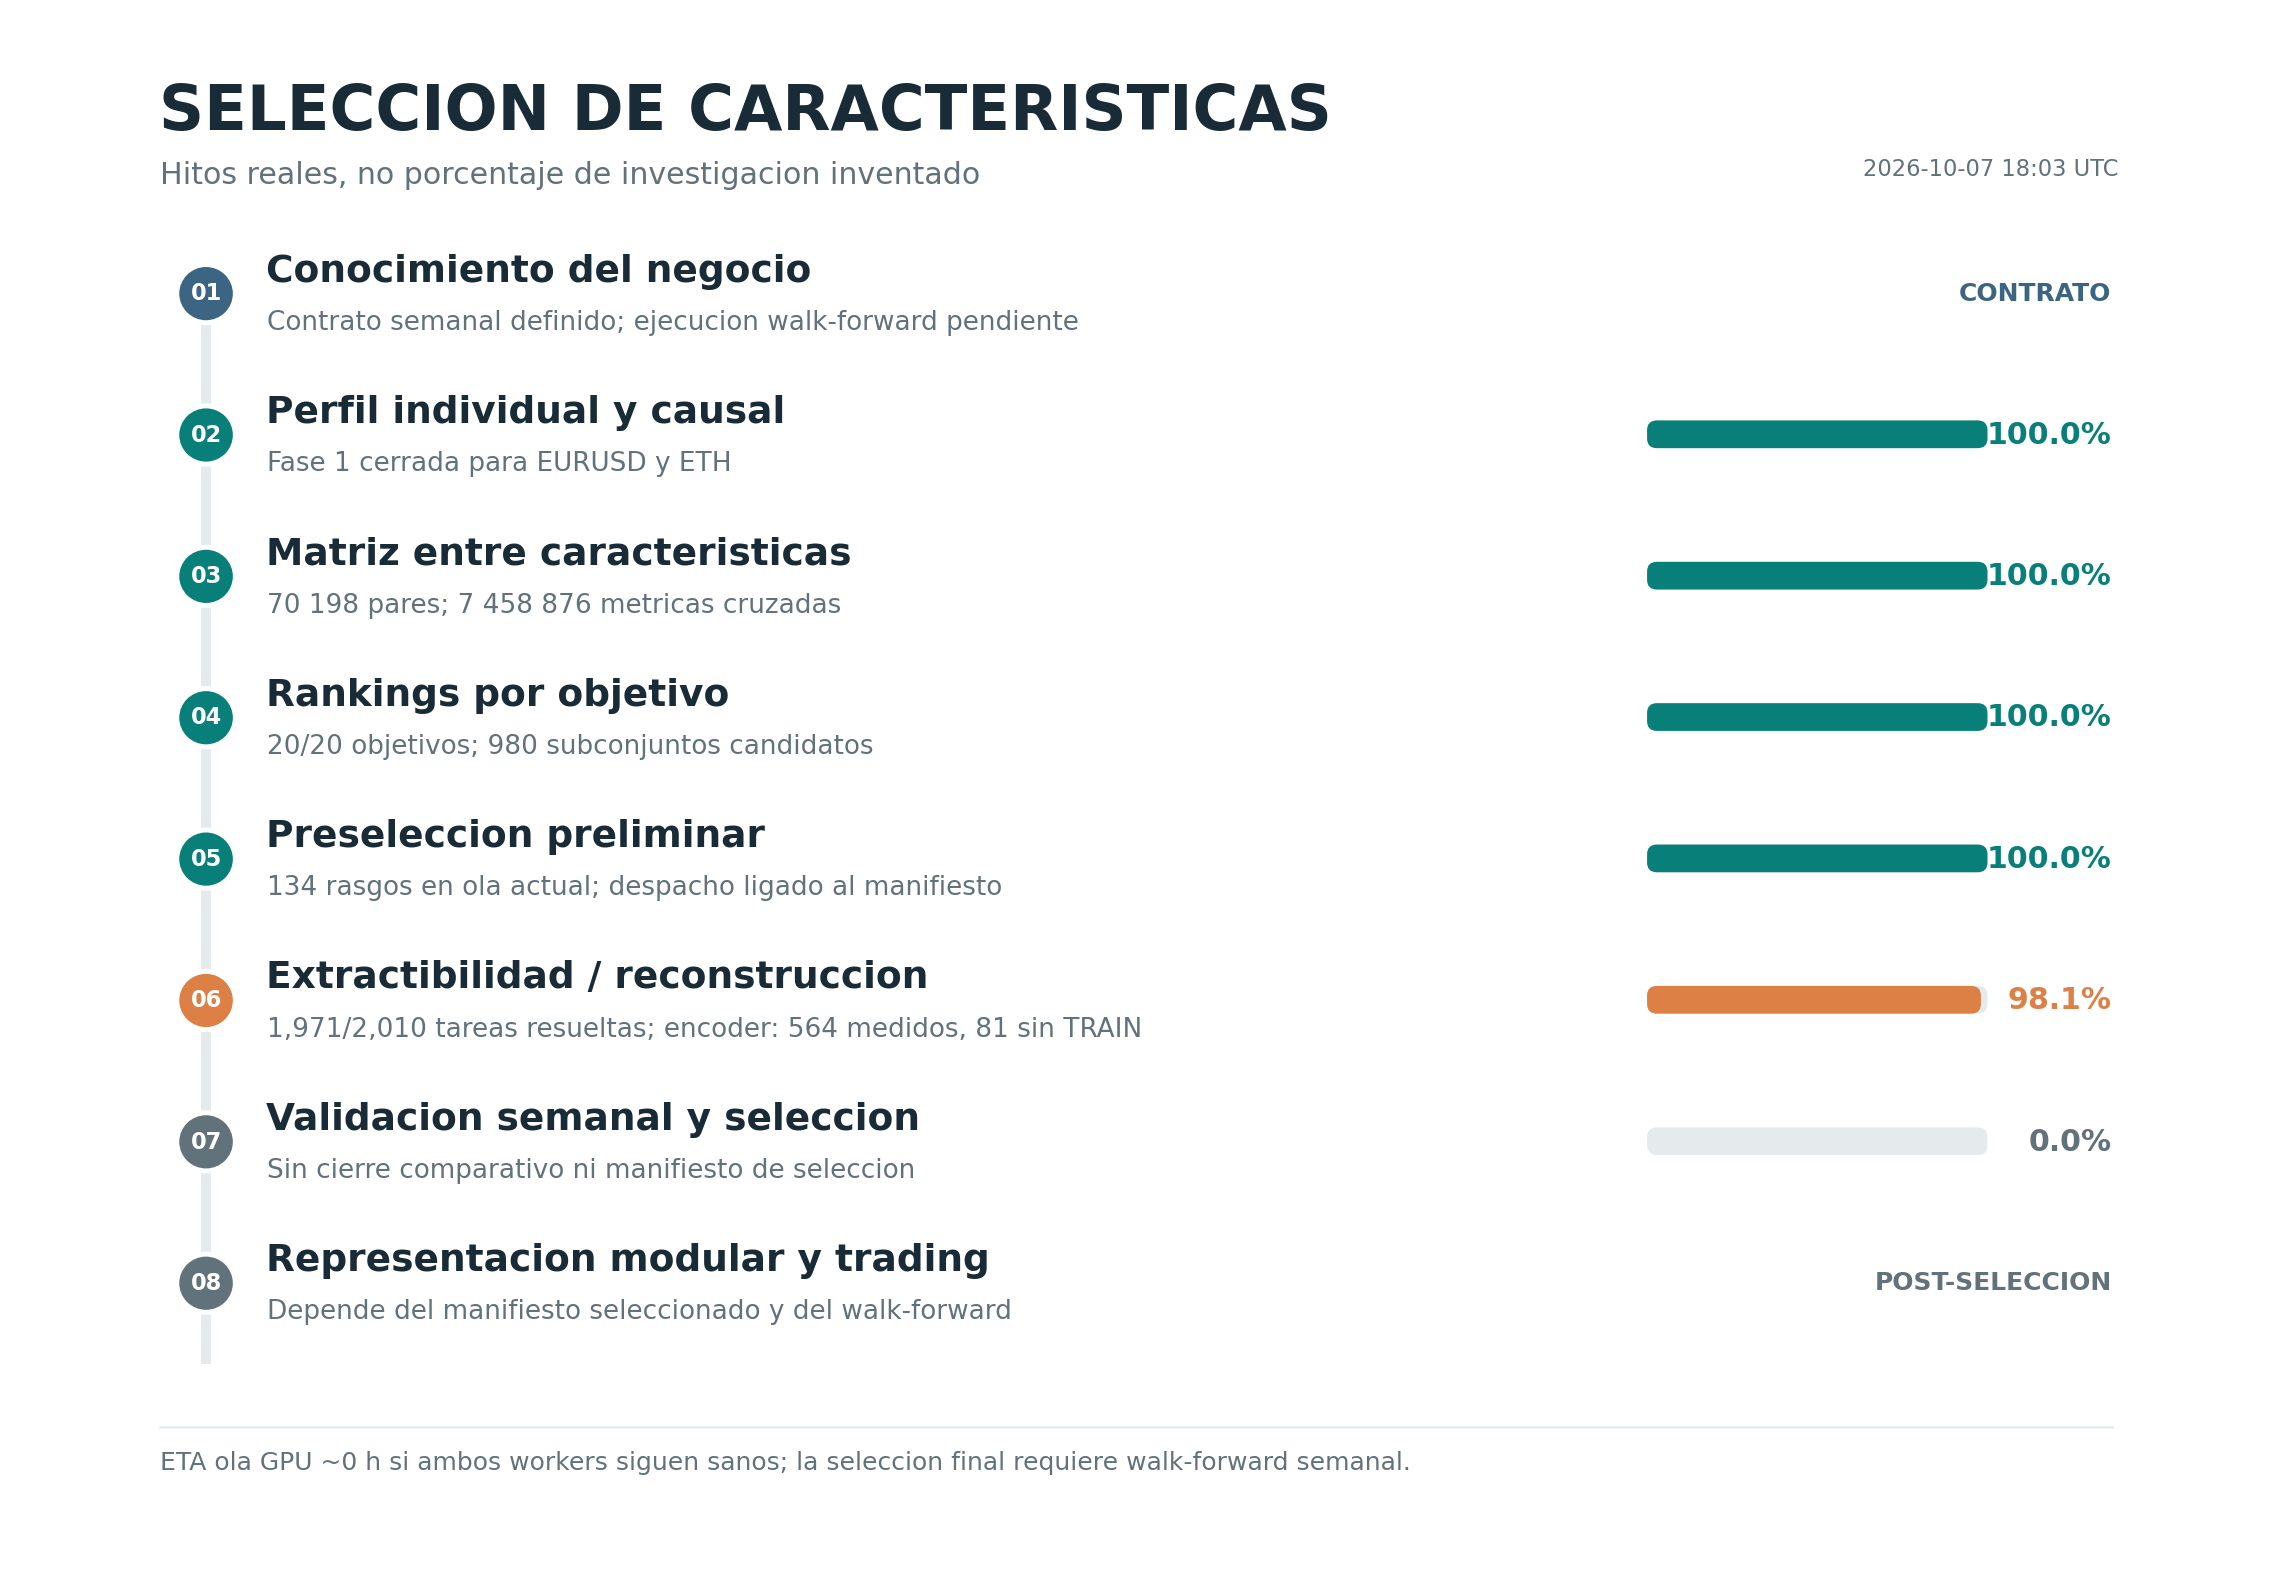
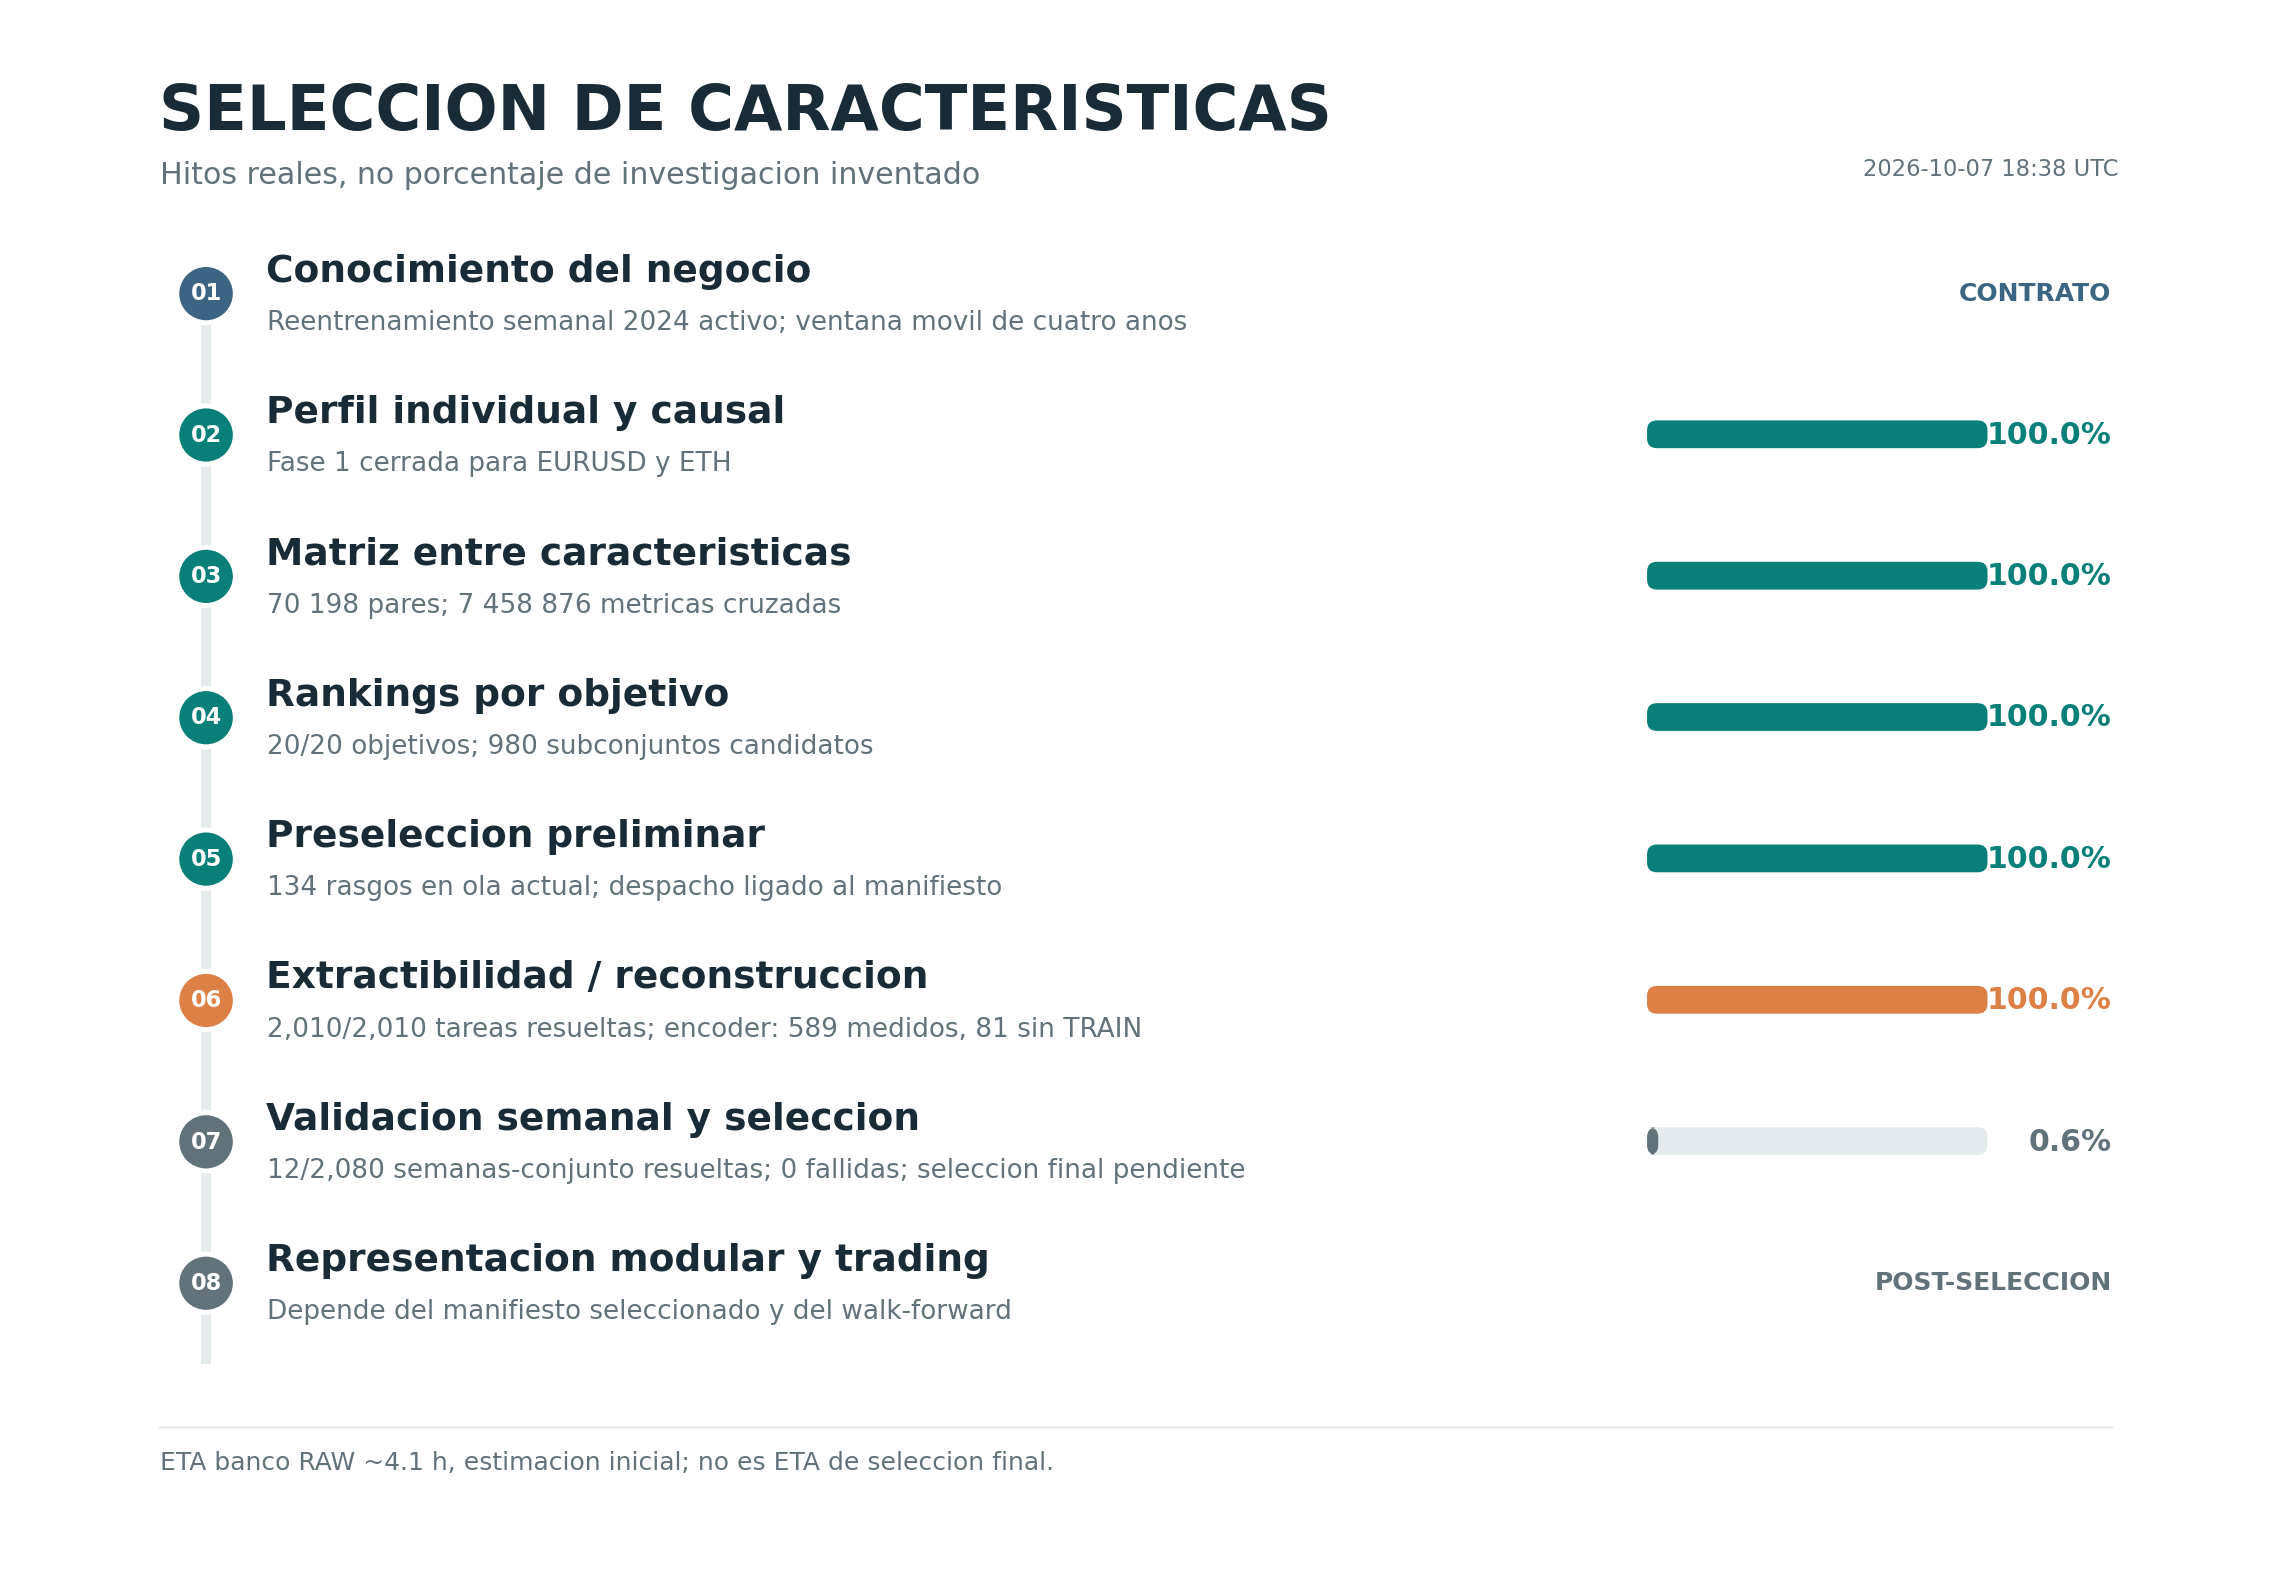
Show weekly feature-selection progress from live task store

diff --git a/tools/render_feature_selection_progress.py b/tools/render_feature_selection_progress.py
@@ -15,7 +15,8 @@ import matplotlib.pyplot as plt
 from matplotlib.patches import Circle, FancyBboxPatch
 
 
-def render(status_path: Path, output_path: Path, wave_status_path: Path | None = None) -> None:
+def render(status_path: Path, output_path: Path, wave_status_path: Path | None = None,
+           weekly_status_path: Path | None = None) -> None:
     status = json.loads(status_path.read_text())
     not_available = status.get("not_available_for_train", 0)
     if isinstance(not_available, dict):
@@ -34,7 +35,7 @@ def render(status_path: Path, output_path: Path, wave_status_path: Path | None =
                        f"{trained_measured} medidos, {trained_unavailable} sin TRAIN")
         wave_progress = wave_done / wave_total
         if wave_done == wave_total:
-            footer = "Primera ola cerrada; faltan cierre parcial y comparacion semanal para seleccionar."
+            footer = "Ola admitida cerrada; la seleccion final requiere comparacion semanal completa."
         elif wave.get("gpu_eta_seconds") is not None:
             eta_hours = wave["gpu_eta_seconds"] / 3600
             footer = (f"ETA ola GPU ~{eta_hours:.0f} h si ambos workers siguen sanos; "
@@ -45,6 +46,22 @@ def render(status_path: Path, output_path: Path, wave_status_path: Path | None =
         wave_detail = f"{done:,}/{total:,} tareas del plan amplio; no es seleccion final"
         wave_progress = done / total
         footer = "ETA de seleccion final: sin base fiable hasta medir la comparacion semanal."
+    weekly_detail = "Sin cierre comparativo ni manifiesto de seleccion"
+    weekly_progress = 0.0
+    if weekly_status_path is not None:
+        weekly = json.loads(weekly_status_path.read_text())
+        if weekly.get("schema") != "fs4.weekly_status.v1" or weekly.get("test_opened_utc") is not None:
+            raise ValueError("Weekly status is invalid or TEST is open")
+        weekly_total = weekly["expected"]
+        weekly_done = weekly["complete"] + weekly["failed"]
+        if weekly_total <= 0 or not 0 <= weekly_done <= weekly_total:
+            raise ValueError("Invalid weekly denominator")
+        weekly_progress = weekly_done / weekly_total
+        weekly_detail = (f"{weekly_done:,}/{weekly_total:,} semanas-conjunto resueltas; "
+                         f"{weekly['failed']} fallidas; seleccion final pendiente")
+        if weekly["eta_seconds"] is not None and weekly["active"] > 0:
+            footer = (f"ETA banco RAW ~{weekly['eta_seconds'] / 3600:.1f} h, estimacion inicial; "
+                      "no es ETA de seleccion final.")
     generated = datetime.now(timezone.utc).strftime("%Y-%m-%d %H:%M UTC")
 
     ink = "#182b36"
@@ -54,7 +71,7 @@ def render(status_path: Path, output_path: Path, wave_status_path: Path | None =
     light = "#e5ebed"
     muted = "#61727b"
     rows = [
-        ("01", "Conocimiento del negocio", "Contrato semanal definido; ejecucion walk-forward pendiente", None, blue),
+        ("01", "Conocimiento del negocio", "Reentrenamiento semanal 2024 activo; ventana movil de cuatro anos", None, blue),
         ("02", "Perfil individual y causal", "Fase 1 cerrada para EURUSD y ETH", 1.0, teal),
         ("03", "Matriz entre caracteristicas", "70 198 pares; 7 458 876 metricas cruzadas", 1.0, teal),
         ("04", "Rankings por objetivo", "20/20 objetivos; 980 subconjuntos candidatos", 1.0, teal),
@@ -62,7 +79,7 @@ def render(status_path: Path, output_path: Path, wave_status_path: Path | None =
          f"{sum(wave['features'].values()) if wave_status_path else 126} rasgos en ola actual; despacho ligado al manifiesto",
          1.0, teal),
         ("06", "Extractibilidad / reconstruccion", wave_detail, wave_progress, orange),
-        ("07", "Validacion semanal y seleccion", "Sin cierre comparativo ni manifiesto de seleccion", 0.0, muted),
+        ("07", "Validacion semanal y seleccion", weekly_detail, weekly_progress, muted),
         ("08", "Representacion modular y trading", "Depende del manifiesto seleccionado y del walk-forward", None, muted),
     ]
 
@@ -109,6 +126,7 @@ if __name__ == "__main__":
     parser = argparse.ArgumentParser()
     parser.add_argument("--status", type=Path, required=True)
     parser.add_argument("--wave-status", type=Path)
+    parser.add_argument("--weekly-status", type=Path)
     parser.add_argument("--output", type=Path, required=True)
     args = parser.parse_args()
-    render(args.status, args.output, args.wave_status)
+    render(args.status, args.output, args.wave_status, args.weekly_status)

diff --git a/docs/progress_20261007/WAVE2_SUCCESSOR.md b/docs/progress_20261007/WAVE2_SUCCESSOR.md
@@ -56,6 +56,10 @@ runs the existing weekly host installer; it retries admission without reducing
 caps. EURUSD small slots use the measured 1,700 MiB cap and ETH slots use
 1,200 MiB. GPU FS4 work and weekly RAW work have separate code paths and
 queues. Weekly activation is not evidence of a completed weekly fit.
+The installed weekly timer override starts once after installation and then
+uses a 15-second cooldown. The EURUSD worker configuration quotes its three
+validation parquet paths as one shell value; the worker splits that value
+into path arguments after loading the configuration.
 
 ## Next steps
 
@@ -83,4 +87,8 @@ python3 -m pytest -q \
   tests/test_fs4_wave_frontier.py tests/test_fs4_wave_successor.py \
   tests/test_fs4_weekly_campaign.py tests/test_fs4_frontier.py
 systemctl --user is-active fs4-wave-successor.timer
+python3 -m tools.fs4_weekly_campaign --db <weekly_queue.sqlite> status --write
+python3 tools/render_feature_selection_progress.py \
+  --status <fs4_closure_STATUS.json> --wave-status <wave_STATUS.json> \
+  --weekly-status <weekly_STATUS.json> --output <progress.png>
 ```
